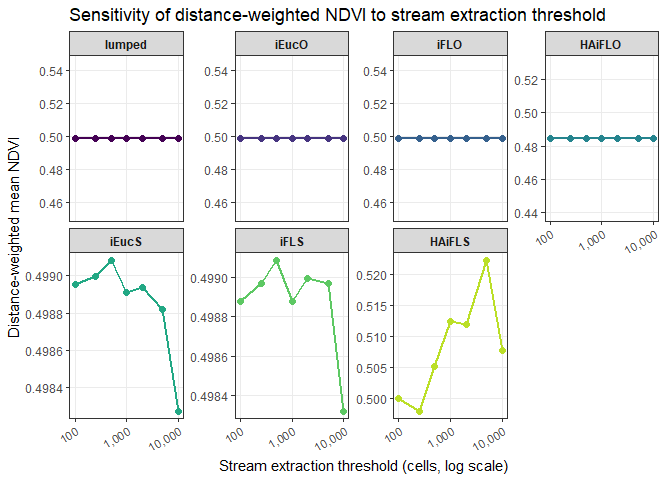
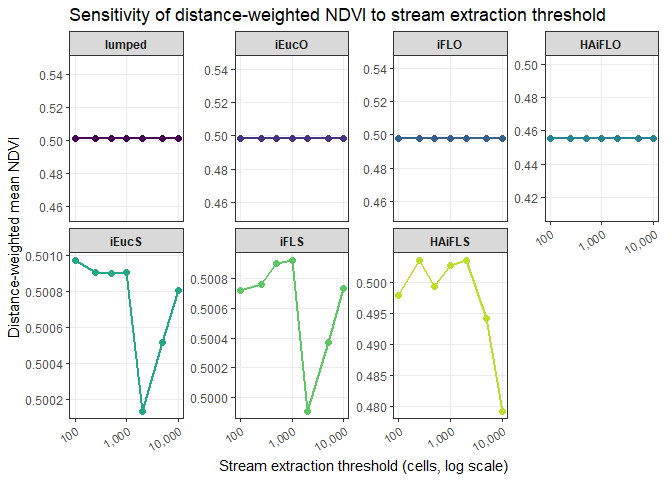
Updates zenodo badge

diff --git a/README.md b/README.md
@@ -53,7 +53,7 @@ hydroweight: Distance-weighted rasters and landscape attributes
 
 <!-- README.md is generated from this file. Please edit README.Rmd. -->
 
-[![](https://zenodo.org/badge/330996075.svg)](https://zenodo.org/badge/latestdoi/330996075)
+\[![DOI](https://zenodo.org/badge/DOI/10.5281/zenodo.4728558.svg//doi.org/10.5281/zenodo.4728558)
 
 # hydroweight
 
@@ -305,8 +305,8 @@ hw <- hydroweight(
   weighting_scheme = c("lumped","iEucO","iFLO","HAiFLO","iEucS","iFLS","HAiFLS"),
   inv_function    = myinv,
 )
-#> Preparing hydroweight layers @ 2026-03-28 00:26:14.042184
-#> Running distance-weighting @ 2026-03-28 00:26:14.333311
+#> Preparing hydroweight layers @ 2026-07-04 09:00:49.78959
+#> Running distance-weighting @ 2026-07-04 09:00:50.14705
 
 # hw comes in as a list of PackedSpatRaster, ensure elements are SpatRaster for plotting
 hw <- lapply(hw, rast)
@@ -857,11 +857,11 @@ sites_attributes_products <- foreach(xx = 1:nrow(tg_O_multi), .errorhandling = "
   sel_layers_hwa
 }
 #> 
-#> ******Running hydroweight() on Site 1 of 3 2026-03-28 00:26:38.569146******
+#> ******Running hydroweight() on Site 1 of 3 2026-07-04 09:01:15.282509******
 #> 
-#> ******Running hydroweight() on Site 2 of 3 2026-03-28 00:26:41.400563******
+#> ******Running hydroweight() on Site 2 of 3 2026-07-04 09:01:18.238591******
 #> 
-#> ******Running hydroweight() on Site 3 of 3 2026-03-28 00:26:44.206478******
+#> ******Running hydroweight() on Site 3 of 3 2026-07-04 09:01:21.702965******
 
 ## Sanity checks
 length(sites_attributes_products)                             # one list per site (3)
@@ -1369,7 +1369,7 @@ glimpse(threshold_df_long_ndvi)
 #> Columns: 3
 #> $ threshold    <dbl> 100, 100, 100, 100, 100, 100, 100, 250, 250, 250, 250, 25…
 #> $ scheme       <fct> lumped, iEucO, iFLO, HAiFLO, iEucS, iFLS, HAiFLS, lumped,…
-#> $ distwtd_mean <dbl> 0.4987395, 0.4986637, 0.4986506, 0.4845075, 0.4989526, 0.…
+#> $ distwtd_mean <dbl> 0.5010977, 0.4983292, 0.4976765, 0.4553006, 0.5009715, 0.…
 ```
 
 #### LULC: one row per threshold × class × scheme